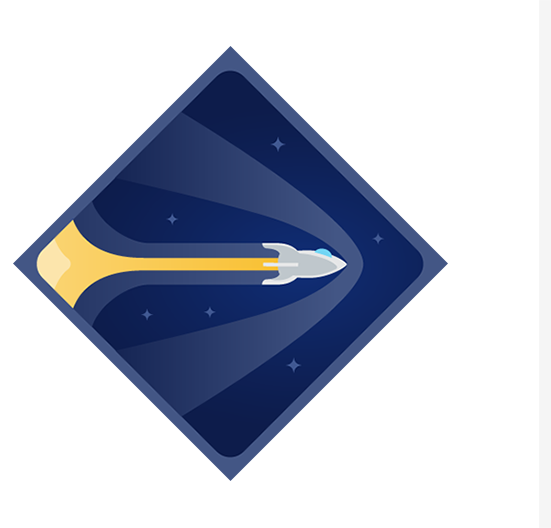
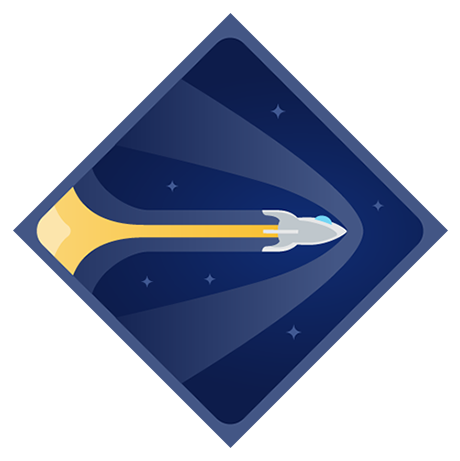
MVP

Changed region(s): [[0.0304, 0.0304, 0.9739, 0.9718], [0.3043, 0.6074, 0.3348, 0.6377], [0.3043, 0.3948, 0.3348, 0.4252]]

diff --git a/src/assets/css/main.css b/src/assets/css/main.css
@@ -1,3 +1,5 @@
+
+
 #root {
   background-color: #483c6c;
   width: 100%;
@@ -432,44 +434,208 @@ form[class|=loginForm] {
 }
 
 /* ----- player info styling */
+.veteranExplorer {
+  color: white;
+  font-family: "snes";
+  font-size: 65px;
+  letter-spacing: 4px;
+}
+.seasonedExpert {
+  color: white;
+  font-family: "snes";
+  font-size: 65px;
+  letter-spacing: 4px;
+}
+.spaceCadet {
+  position: relative;
+  color: white;
+  font-family: "snes";
+  font-size: 65px;
+  letter-spacing: 4px;
+  top: 10px;
+}
+
 .takeoff {
+  position: relative;
   background-image: url('../img/takeoff.png');
-  background-size: 420px;
+  background-size: 400px;
   background-repeat: no-repeat;
+  background-position: center;
+  width: 500px;
+  height: 500px;
 }
-
 .zoom {
+  position: relative;
   background-image: url('../img/zoom.png');
-  background-size: 80px;
+  background-size: 400px;
   background-repeat: no-repeat;
-  width: 100px;
-  length: 100px;
+  background-position: center;
+  width: 500px;
+  height: 500px;
 }
-
 .stargazer {
+  position: relative;
   background-image: url('../img/stargazer.png');
-  background-size: 420px;
+  background-size: 400px;
   background-repeat: no-repeat;
+  background-position: center;
+  width: 500px;
+  height: 500px;
+  border: 0px;
 }
 
+.bombText {
+  position: relative;
+  font-family: "Roboto Mono";
+  color: white;
+  right: -220px;
+  bottom: 46px;
+}
+.heartText {
+  position: relative;
+  font-family: "Roboto Mono";
+  color: white;
+  right: -220px;
+  bottom: 20px;
+}
 
+.heartIcon {
+  position: relative;
+  background-image: url('../img/heartIcon.png');
+  background-size: 70px;
+  background-repeat: no-repeat;
+  background-position: center;
+  width: 100px;
+  height: 100px;
+  right: -100px;
+  bottom: -70px;
+}
+.bombIcon {
+  position: relative;
+  background-image: url('../img/bombIcon.png');
+  background-size: 70px;
+  background-repeat: no-repeat;
+  background-position: center;
+  width: 100px;
+  height: 100px;
+  right: -100px;
+  bottom: -35px;
+}
+
+.nameIntro {
+  position: relative;
+  font-family: "snes";
+  font-size: 100px;
+  width: 800px;
+  color: white;
+  letter-spacing: 4px;
+  right: -100px;
+  bottom: -120px;
+}
 
 .playerBG {
   position: absolute;
   width: 100%;
   height: 750px;
   margin-top: -30px;
-  background-image: url('../img/space-illustration.jpg');
-  background-repeat: no-repeat;
-  background-position: center;
-  background-size: cover;
+  background: url('../img/space-illustration.jpg') no-repeat center center fixed;
+  -webkit-background-size: cover;
+  -moz-background-size: cover;
+  -o-background-size: cover;
+   background-size: cover;
 }
 
-.badges {
-  position: relative;
-  width: 200px;
-  length: 200px;
+.background{
+ z-index: 9999;
+ width: 100%;
+ height: 100%;
+ position: fixed;
+ top: 0;
+ left: 0;
+}
 
+.lvl {
+  position: absolute;
+  width: 600px;
+  height: 150px;
+  top: 75px;
+  right: -30px;
+}
+.badges {
+  position: absolute;
+  width: 450px;
+  height: 450px;
+  right: 70px;
+  top: 210px;
+  border: 10px;
+  border-radius: -100px;
+}
+
+.playerDetails {
+  height: 800px;
+  width: 500px;
+}
+.playerButtons {
+  position: relative;
+  height: 200px;
+  width: 400px;
+  top: -300px;
+  right: -100px
+}
+.playerLogout{
+  margin-top: 28px;
+  margin-right: 10px;
+  width: 170px;
+  height: 52px;
+  background: #ff217c;
+  border: none;
+  border-radius: 2px;
+  color: #fff;
+  font-family:  "Roboto Mono";
+  font-weight: 500;
+  font-size: 20px;
+  text-transform: uppercase;
+  transition: 0.1s ease;
+  cursor: pointer;
+}
+.playerLogout:active {
+  opacity: 1;
+  box-shadow: 0 1px 2px rgba(0, 0, 0, 0.4);
+  transition: 0.1s ease;
+}
+.playerLogout:hover, {}
+.playerLogout:focus {
+  opacity: 0.8;
+  box-shadow: 0 2px 4px rgba(0, 0, 0, 0.4);
+  transition: 0.1s ease;
+}
+
+.playerStart{
+  margin-top: 28px;
+  margin-right: 10px;
+  width: 170px;
+  height: 52px;
+  background: #ff217c;
+  border: none;
+  border-radius: 2px;
+  color: #fff;
+  font-family:  "Roboto Mono";
+  font-weight: 500;
+  font-size: 20px;
+  text-transform: uppercase;
+  transition: 0.1s ease;
+  cursor: pointer;
+}
+.playerStart:active {
+  opacity: 1;
+  box-shadow: 0 1px 2px rgba(0, 0, 0, 0.4);
+  transition: 0.1s ease;
+}
+.playerStart:hover, {}
+.playerStart:focus {
+  opacity: 0.8;
+  box-shadow: 0 2px 4px rgba(0, 0, 0, 0.4);
+  transition: 0.1s ease;
 }
 
 /* ----- responsive stuff? */

diff --git a/src/components/PlayerInfo.js b/src/components/PlayerInfo.js
@@ -28,11 +28,22 @@ export class PlayerInfo extends Component {
 
   showBadge = () => {
     if (this.props.player.defused > 30) {
-      return <img className = "zoom" />
-    } else if (this.props.player.defuse > 10 && this.props.player.defuse < 30) {
-      return <img className = "takeoff" />
+      return <div className = "zoom"  alt = {""} />
+    } else if (this.props.player.defused < 10 ) {
+      return <div className = "stargazer" alt = {""} />
+  } else {
+      return <div className = "takeoff" alt = {""} />
+  }
+  }
+
+  showLevel = () => {
+
+    if (this.props.player.defused > 30) {
+      return <h1 className = "veteranExplorer"> Level 3: Veteran Explorer </h1>
+    } else if (this.props.player.defused < 10) {
+      return <h1 className = "spaceCadet"> Level 1: Space Cadet </h1>
     } else {
-      return <img className = "stargazer" />
+      return <h1 className = "seasonedExpert"> Level 2: Seasoned Expert </h1>
     }
 
   }
@@ -42,19 +53,28 @@ export class PlayerInfo extends Component {
     if (this.props.player) {
 
       return (
-        <div className = "playerBG" >
+        <div className = "playerBG background" >
           <div className = "playerDetails" >
-            <h1>Hello {this.props.player.username}!</h1>
-            <h2>Bombs Defused {this.props.player.defused}</h2>
-            <h2>Bombs Exploded {this.props.player.exploded}</h2>
-            <p> Email: {this.props.player.email} </p>
-            <button onClick = {this.logOut} >Logout</button>
-            <button onClick = {this.startGame} >Play!!!</button>
-          </div>
-          
-          <div className = "badges" >
-            {this.showBadge()}
-          </div>
+            <h1 className = "nameIntro" >Hello {this.props.player.username}!</h1>
+            <div className = "heartIcon" /> <h2 className = "heartText" > Defused: {this.props.player.defused} </h2>
+            <div className = "bombIcon" /> <h2 className = "bombText" > Exploded: {this.props.player.exploded} </h2>
+
+        </div>
+
+        <div className = "playerButtons" >
+          <button className = "playerLogout" onClick = {this.logOut} >Logout</button>
+          <button className = "playerStart" onClick = {this.startGame} >Play!!!</button>
+        </div>
+
+        <div className = "lvl">
+          {this.showLevel()}
+        </div>
+
+        <div className = "badges" >
+          {this.showBadge()}
+        </div>
+
+
 
       </div>
 

diff --git a/src/components/Home.js b/src/components/Home.js
@@ -1,8 +1,4 @@
 import React, { Component } from 'react';
-import introBG from '../assets/img/introBG.jpg'
-import login from '../assets/img/login.png'
-import signup from '../assets/img/signup.png'
-
 
 export default class Home extends Component {
 
@@ -17,11 +13,11 @@ export default class Home extends Component {
   render() {
 
     return (
-      <div className = "homeBGColor" >
+      <div className = "homeBGColor background" >
         <div className = "homeStyle" >
-          <h1 className = "homeLogin" onClick = {this.login} />
+          <h1 className = "homeLogin" onClick = {this.login} > </h1>
           <br/>
-          <h1 className = "homeSignup" onClick = {this.signUp} />
+          <h1 className = "homeSignup" onClick = {this.signUp} > </h1>
         </div>
      </div>
     )

diff --git a/src/components/buttonBomb.js b/src/components/buttonBomb.js
@@ -121,7 +121,7 @@ export class ButtonBomb extends Component {
         return (
           <div>
 
-            <img className = "explosion" />
+            <img className = "explosion background" />
             {this.lose()}
           </div>
         )
@@ -137,7 +137,7 @@ export class ButtonBomb extends Component {
     } else {
       return (
 
-        <div className = "gameBG">
+        <div className = "gameBG background">
           <div className = "gameStyle" >
 
             <div className = "bombContainer" >

diff --git a/src/App.js b/src/App.js
@@ -18,7 +18,7 @@ class App extends Component {
     const levelOneSolution = [1,1,3]
     const levelOneEmoji = "👌👌👌👌👌"
     const levelOneInstructions = "Press the First Button Twice then the Third Button Once."
-    const levelOneTimer = 1000000
+    const levelOneTimer = 15
     const levelTwoSolution = [2,3,1,5,6]
     const levelTwoEmoji = "😍😍😍😍😍"
     const levelTwoInstructions = "Press the Second Button then the Third then the First then the Fifth then the Sixth."

diff --git a/src/components/GameIntro.js b/src/components/GameIntro.js
@@ -28,7 +28,7 @@ export default class GameIntro extends Component {
   render(){
     console.log(this.state.time);
     return (
-      <div className = "gameIntroBG">
+      <div className = "gameIntroBG background">
         <div className = "countdownContainer" >
           <h1 className = "countdownTimer" > {this.timer()} </h1>
           <h1 className = "countdownInstructions"> Instructions: </h1>

diff --git a/src/components/LoginForm.js b/src/components/LoginForm.js
@@ -30,7 +30,7 @@ export class LoginForm extends Component {
 
     return (
 
-      <div className = "loginBG" >
+      <div className = "loginBG background" >
         <h1 className = "loginText" > Login </h1>
 
         <form className = "loginForm" onSubmit = {this.handleSubmit}>

diff --git a/src/components/SignupForm.js b/src/components/SignupForm.js
@@ -28,7 +28,7 @@ export class SignupForm extends Component {
 
   render(){
     return (
-      <div className = "signupBG" >
+      <div className = "signupBG background" >
 
           <h1 className = "signUpText" > Signup </h1>
 

diff --git a/src/components/loss.js b/src/components/loss.js
@@ -22,7 +22,7 @@ export class YouLose extends Component {
 
   render() {
     return (
-      <div className = "lossBG" >
+      <div className = "lossBG background" >
 
 
         <div className = "buttonContainer" >
